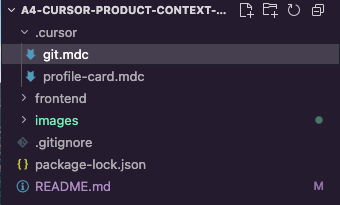
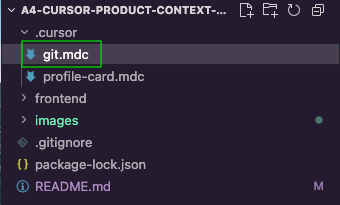
Bump default-profile-card cache param (v3), update git-rules screenshot

Changed region(s): [[0.0588, 0.1756, 0.2941, 0.3512], [0.2941, 0.2049, 0.3235, 0.322]]

diff --git a/README.md b/README.md
@@ -41,7 +41,7 @@ The Cursor Terminal will show the local url. Click on it.
 
 You should see a centered dark profile card.
 
-![Profile card running on localhost](images/default-profile-card.png?v=2)
+![Profile card running on localhost](images/default-profile-card.png?v=3)
 
 ### ✅ Checkpoint: 
 - [ ] The app runs, and you can see the `ProfileCard` component.
